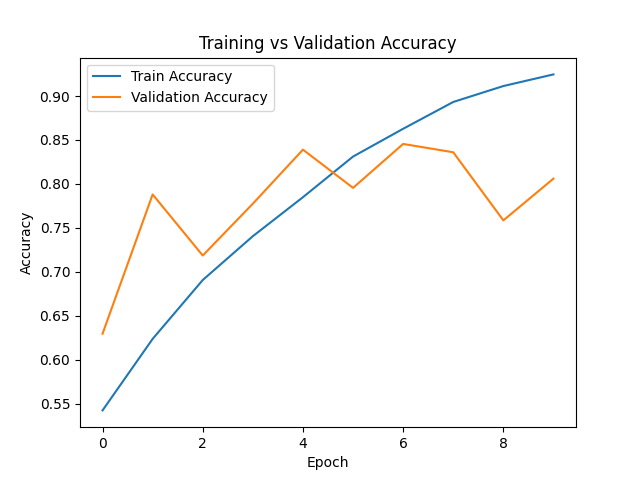
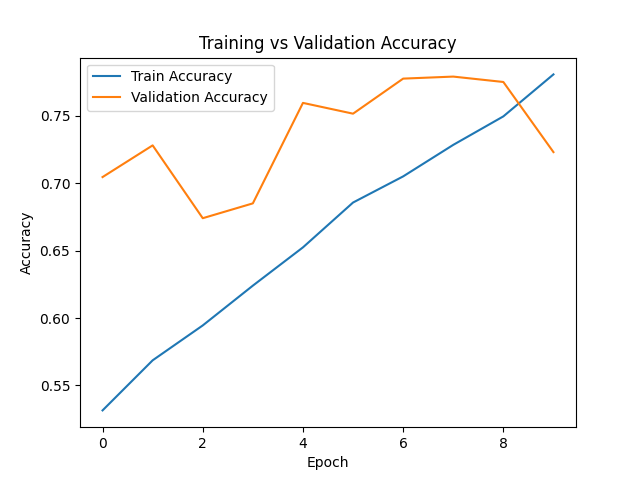
gesture train/val curves

diff --git a/gesture-swipe/model.py b/gesture-swipe/model.py
@@ -23,7 +23,7 @@ class GestureCNN(nn.Module):
             nn.Flatten(),
             nn.Linear(64 * (H//4) * (W//4), 128),
             nn.ReLU(),
-            nn.Dropout(0.3)
+            nn.Dropout(0.3),
             nn.Linear(128, num_classes)
         )
 